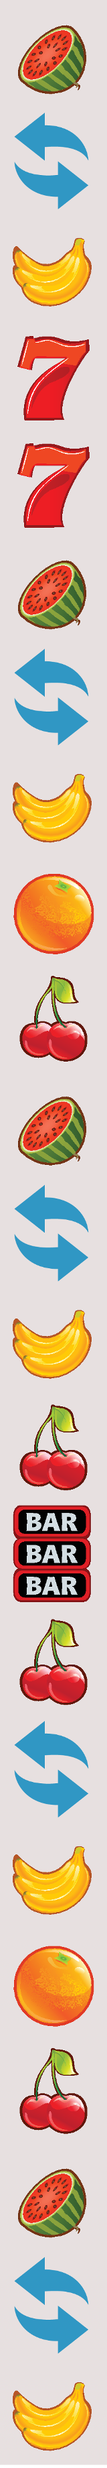
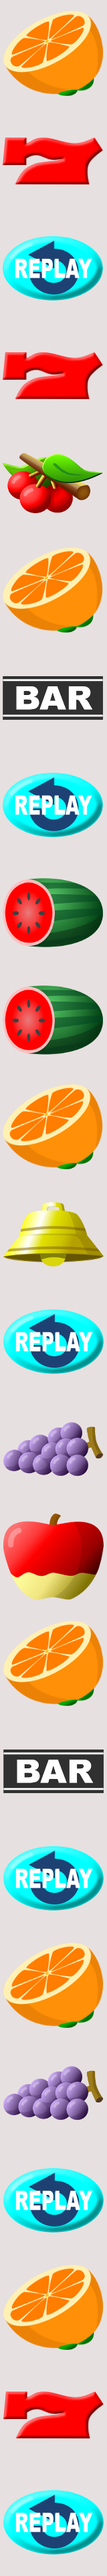
Add files via upload

diff --git a/index.html b/index.html
@@ -9,9 +9,9 @@
 	<div id="time" align="right">残り時間:60秒</div>
 	<div id="money" align="right">所持コイン:50枚</div>
 	
-	<img id="left" src="reel_left.png" style="left:200px;top:-1550px;clip:rect(1600,160,2080,0);position:absolute;"/>
-	<img id="center" src="reel_center.png" style="left:360px;top:-1550px;clip:rect(1600,160,2080,0);position:absolute;">
-	<img id="right" src="reel_right.png" style="left:520px;top:-1550px;clip:rect(1600,160,2080,0);position:absolute;">
+	<img id="left" src="reel_left.png" style="left:370px;top:50px;clip:rect(0,160,480,0);position:absolute;"/>
+	<img id="center" src="reel_center.png" style="left:530px;top:50px;clip:rect(0,160,480,0);position:absolute;">
+	<img id="right" src="reel_right.png" style="left:690px;top:50px;clip:rect(0,160,480,0);position:absolute;">
 	
 	<button type="Button" OnClick="stop(1)" style="left:200px;top:550px;position:absolute;" id="left_button">Stop</button>
 	<button type="Button" OnClick="stop(2)" style="left:360px;top:550px;position:absolute;" id="center_button">Stop</button>
@@ -46,14 +46,14 @@
 		var right=document.getElementById("right");
 		
 		//現在位置
-		var cur_left=-1600;
-		var cur_center=-1600;
-		var cur_right=-1600;
+		var cur_left=0;
+		var cur_center=0;
+		var cur_right=0;
 		
 		//速度指定
-		var verocity_left=160*3/100.0;
-		var verocity_center=-160*3/100.0;
-		var verocity_right=160*3/100.0;
+		var verocity_left=160*5/100.0;
+		var verocity_center=-160*5/100.0;
+		var verocity_right=160*5/100.0;
 		
 		//残額0でリプレイを引くとGAMEOVER扱いになる対策
 		var repFlag=false;
@@ -62,10 +62,18 @@
 		var time_left=60;
 		var gaming=false;
 		
+		//GAMEOVER時に時間の減少を止める用
+		var gameover_flag=false;
+		
 		function init(){
 			money=input_money();
 			money_update();
+			time_left=60;
+			gameover_flag=false;
 			var a=setInterval(function(){
+				if(gameover_flag){
+					clearInterval(a);
+				}
 				time_left-=1;
 				document.getElementById("time").innerHTML="残り時間:"+time_left+"秒";
 				if(time_left==0){
@@ -79,6 +87,8 @@
 		
 		function input_money(){
 			var ret=prompt("所持コインを入力してください。");
+			if(ret==null)	return 50;
+			if(ret=="")	return 50;
 			return ret;
 		}
 		
@@ -115,7 +125,7 @@
 		
 			
 			//境界判定に使用
-			var bottom=160*20;
+			var bottom=160*21;
 			
 			var func=setInterval(function(){
 				//現在位置の移動
@@ -167,8 +177,9 @@
 					end();
 					money_update();
 					if(money<=0&&!repFlag){
+						gameover_flag=true;
 						setTimeout("window.alert('GAMEOVER')",1000);
-						setTimeout("init()",5000);
+						setTimeout("init()",2000);
 					}
 					started=false;
 					gaming=false;
@@ -194,7 +205,7 @@
 			else if(num==2){
 				//centerを止める
 				flag_center=true;
-				var move=(160*20+cur_center)%160;
+				var move=(160*21+cur_center)%160;
 				end_center=cur_center-move;
 			}
 			else if(num==3){
@@ -208,47 +219,53 @@
 		
 		function end(){
 			/*
-			left: rep(0)			0,5,8,10,15
-					banana(1)		1,6,11,16
-					watermelon(2)	3,9,17,19
-					orange(3)		7,18
-					cherry(4)		13,14
-					bar(5)			12
-					seven(6)			2,4
+			left: 	rep(0)			2,7,11,16,19,
+					orange(1)		1,6,9,13,17,
+					watermelon(2)	15,20
+					apple(3)		8,
+					bell(4)			10,12,
+					grape(5)		14,21
+					cherry(6)		18
+					bar(7)			4,5
+					seven(8)		3
 			*/
-			var array_left=[0,1,6,2,6,0,1,3,0,2,0,1,5,4,4,0,1,2,3,2,0];
+			var array_left=[1,0,8,7,7,1,0,3,1,4,0,4,1,5,2,0,1,6,0,2,5];
 			var index_left=Math.floor(-cur_left/160+1e-6);
 			var up_left=array_left[index_left];
-			var mid_left=array_left[(index_left+1)%20];
-			var low_left=array_left[(index_left+2)%20];
+			var mid_left=array_left[(index_left+1)%21];
+			var low_left=array_left[(index_left+2)%21];
 			/*
-			center:	rep(0)			1,6,11,16
-						banana(1)		2,7,12,17
-						watermelon(2)	0,5,10
-						orange(3)		8,18
-						cherry(4)		9,13,15,19
-						bar(5)			14
-						seven(6)			3,4
+			center:	rep(0)			3,8,13,18,21
+					orange(1)		1,6,11,16,19,
+					watermelon(2)	9,10,
+					apple(3)		15,
+					bell(4)			12,
+					grape(5)		14,20,
+					cherry(6)		5,
+					bar(7)			7,17,
+					seven(8)		2,4,
 			*/
-			var array_center=[2,0,1,6,6,2,0,1,3,4,2,0,1,4,5,4,0,1,3,4,2];
+			var array_center=[1,8,0,8,6,1,7,0,2,2,1,4,0,5,3,1,7,0,1,5,0];
 			var index_center=Math.floor(-cur_center/160+1e-6);
 			var up_center=array_center[index_center];
-			var mid_center=array_center[(index_center+1)%20];
-			var low_center=array_center[(index_center+2)%20];
+			var mid_center=array_center[(index_center+1)%21];
+			var low_center=array_center[(index_center+2)%21];
 			/*
-			right:	rep(0)			2,7,12,17
-						banana(1)		1,6,11,16
-						watermelon(2)	3,8,13,18
-						orange(3)		9,19
-						cherry(4)		0,5,10,15
-						bar(5)			14
-						seven(6)			4
+			right: 	rep(0)			4,6,10,14,18,21
+					orange(1)		1,5,9,13,17,
+					watermelon(2)	2,8,
+					apple(3)		11,
+					bell(4)			12,
+					grape(5)		15,20,
+					cherry(6)		19,
+					bar(7)			7,16,
+					seven(8)		3,
 			*/
-			var array_right=[4,1,0,2,6,4,1,0,2,3,4,1,0,2,5,4,1,0,2,3,4];
+			var array_right=[1,2,8,0,1,0,7,2,1,0,3,4,1,0,5,7,1,0,6,5,0];
 			var index_right=Math.floor(-cur_right/160+1e-6);
 			var up_right=array_right[index_right];
-			var mid_right=array_right[(index_right+1)%20];
-			var low_right=array_right[(index_right+2)%20];
+			var mid_right=array_right[(index_right+1)%21];
+			var low_right=array_right[(index_right+2)%21];
 			
 			//mid-mid-mid
 			if(equals(mid_left,mid_center,mid_right)){
@@ -306,7 +323,7 @@
 			stop_left=stop_center=stop_right=false;
 			end_left=end_center=end_right=0;
 			money+=use;
-			setTimeout("start()",1500);
+			setTimeout("start()",750);
 			return;
 		}
 		
